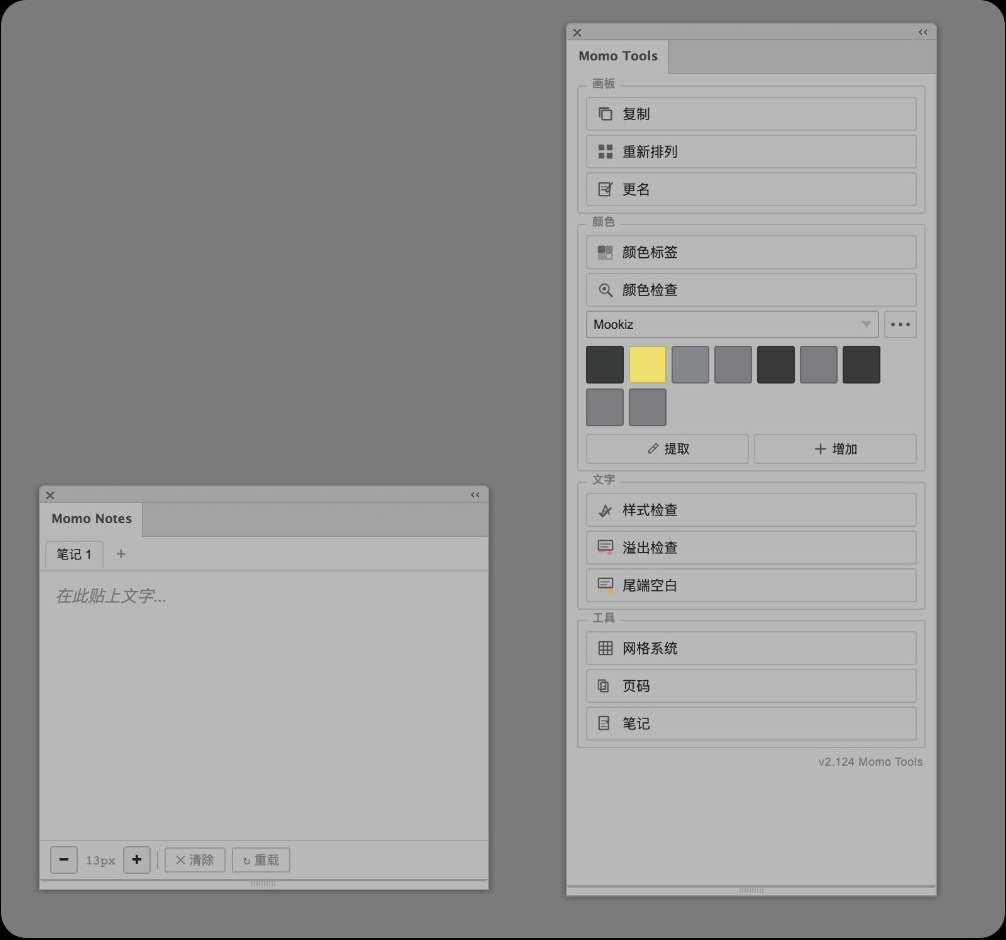
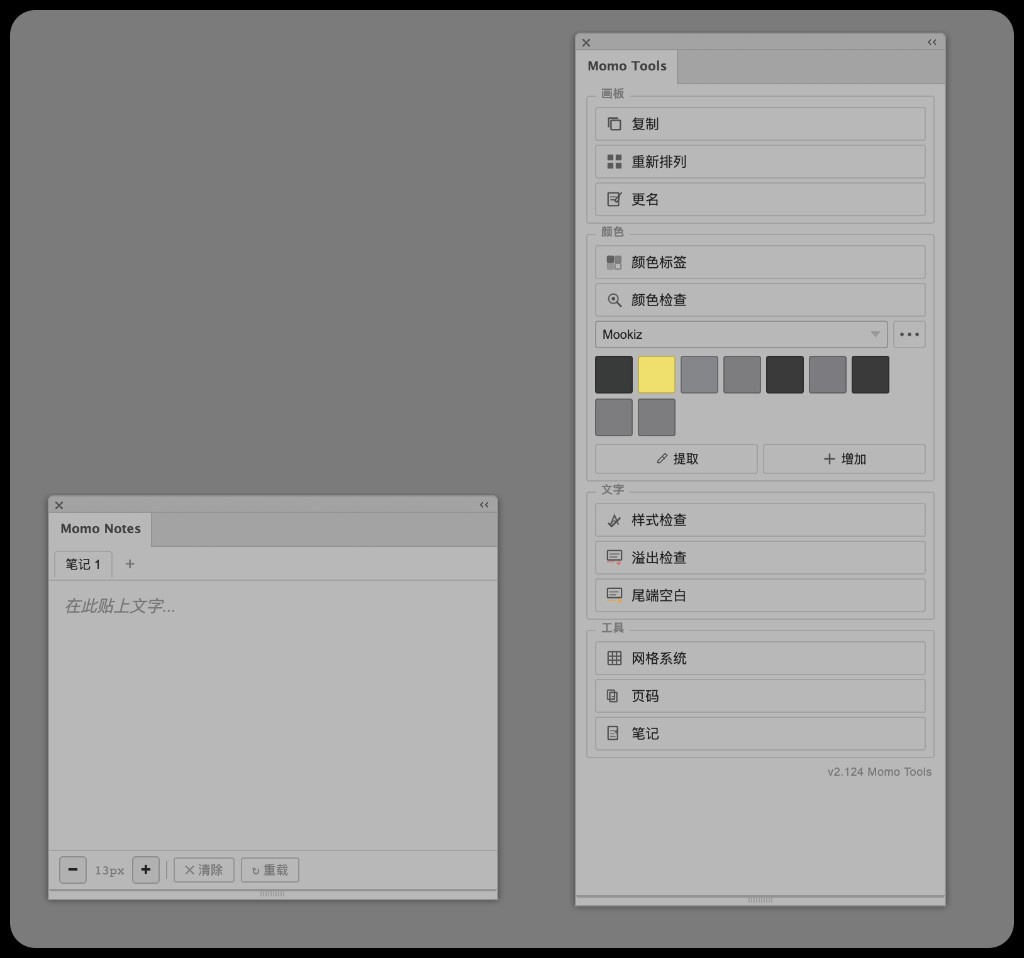
docs: use raw panel screenshot; drop CSS frame on that image.

diff --git a/site/index.html b/site/index.html
@@ -225,7 +225,7 @@ reg add HKCU\Software\Adobe\CSXS.12 /v PlayerDebugMode /t REG_STRING /d 1 /f</pr
 
 <div class="card" id="quick-panel">
   <figure class="doc-figure">
-    <img class="doc-img" src="assets/images/panel-layout.png" alt="Momo Tools 主面板与 Momo Notes 笔记面板">
+    <img class="doc-img doc-img-native" src="assets/images/panel-layout.png" alt="Momo Tools 主面板与 Momo Notes 笔记面板">
     <figcaption>左：Momo Notes · 右：Momo Tools 主面板</figcaption>
   </figure>
   <p>主面板自上而下四组按钮，<b>点即执行</b>，结果在 Illustrator 窗口底部短暂提示。主题跟随 AI 深浅色，无需设置。</p>

diff --git a/site/docs.css b/site/docs.css
@@ -128,6 +128,7 @@ a:hover{text-decoration:underline}
 .doc-toggle.win[open] summary{border-bottom:2px solid rgba(0,120,215,.3)}
 .doc-figure{margin:16px 0 20px}
 .doc-img,.doc-video{display:block;width:66.666%;max-width:66.666%;margin-left:auto;margin-right:auto;border:1px solid var(--c-border);border-radius:8px;box-shadow:0 2px 12px rgba(55,53,47,.08)}
+.doc-img-native{border:none;border-radius:0;box-shadow:none}
 .doc-img{height:auto}
 .doc-video{background:#000}
 .doc-figure figcaption{margin-top:8px;font-size:13px;color:var(--c-text-2);text-align:center}

diff --git a/CHANGELOG.md b/CHANGELOG.md
@@ -3,6 +3,7 @@
 ## [Unreleased]
 
 ### 文档
+- **使用指南（site）**：面板布局图改为用户原图直传，不做裁切/修图；移除该图 CSS 圆角边框
 - **使用指南（site）**：ZXP/UXP Installer 下载链接更新为用户指定地址
 - **使用指南（site）**：更新快速上手面板布局截图（v2.124）
 - **使用指南（site）**：修复面板布局截图 JPEG 黑边问题，改为 PNG 并去除 iShot 导出黑框